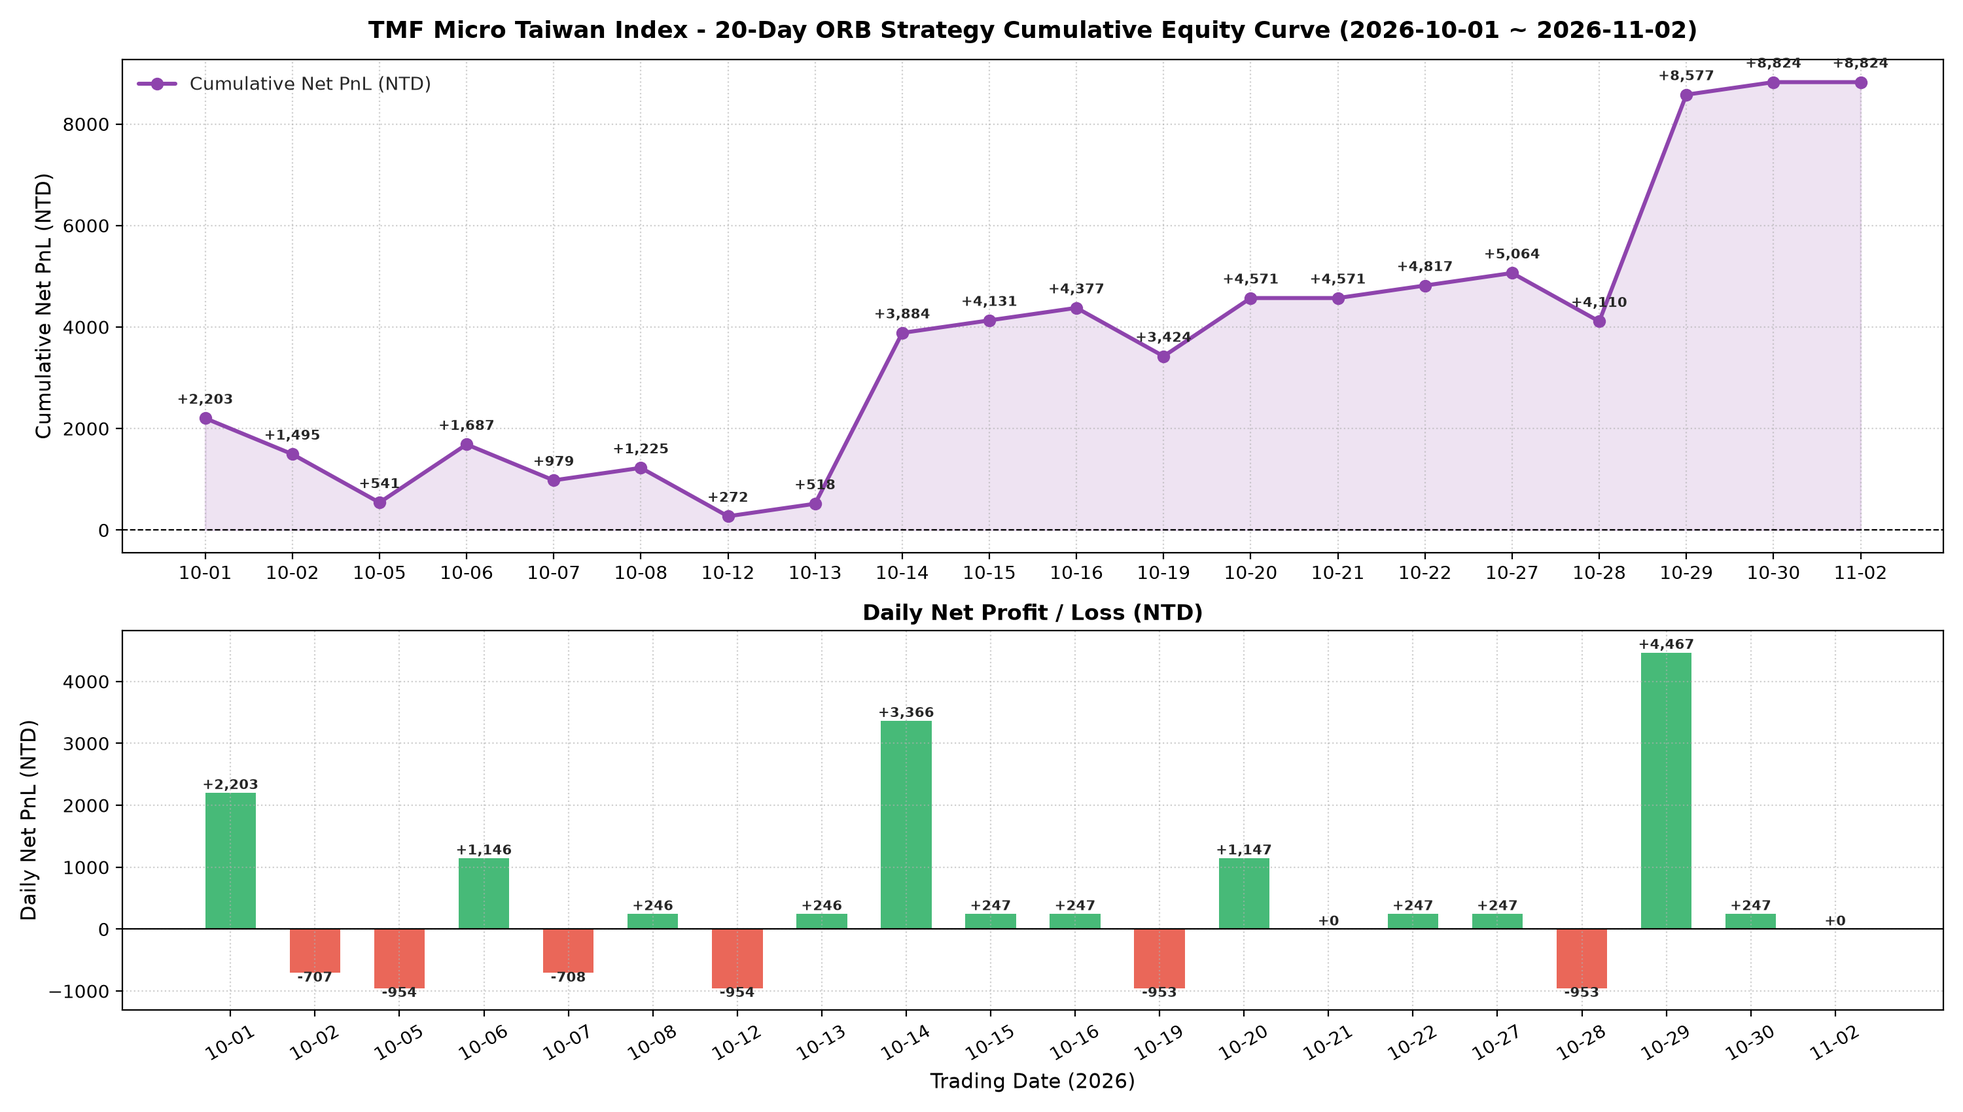
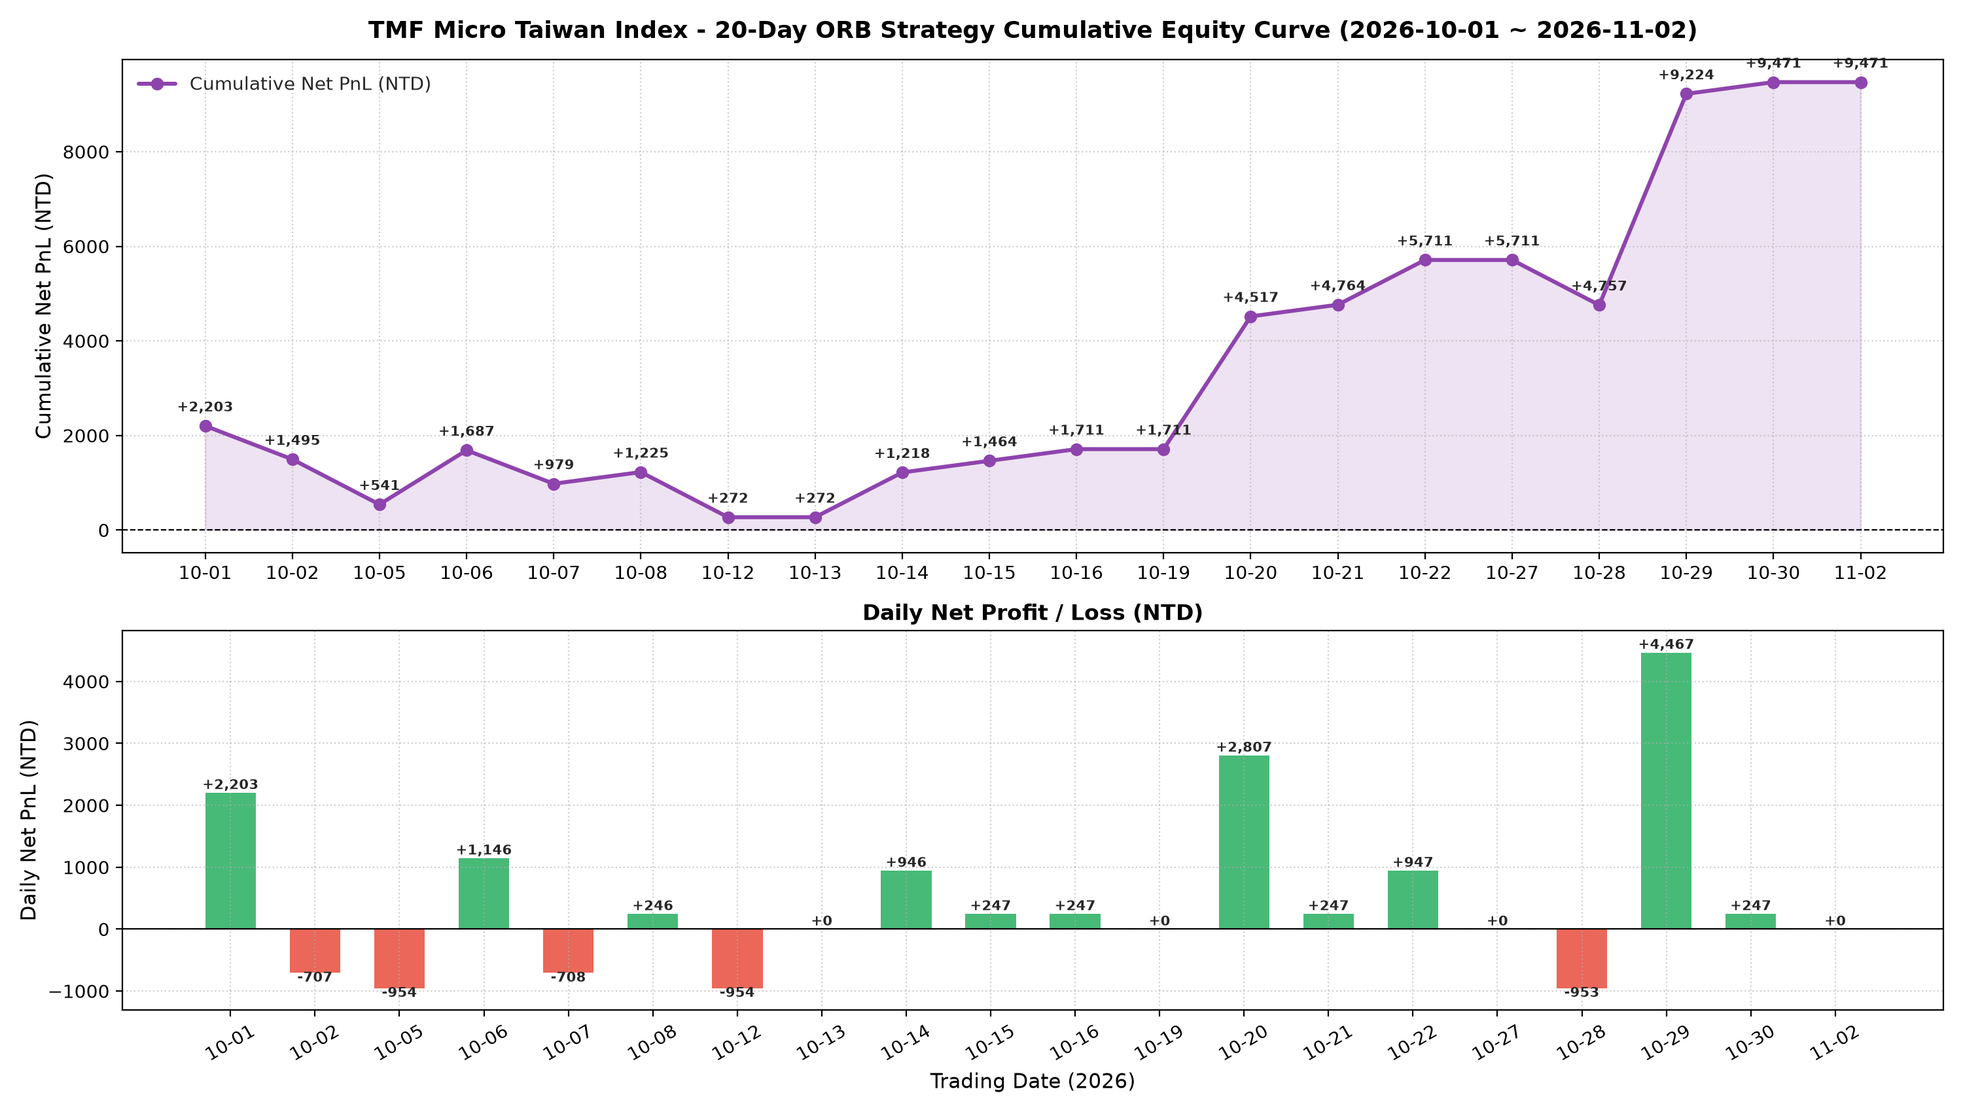
feat: Add Tier-1.5 profit lock, delayed EMA breakout entry, max ORB range filter, auto-reconnect and push notifications

diff --git a/tmf_daytrading/live/shioaji_trader.py b/tmf_daytrading/live/shioaji_trader.py
@@ -23,6 +23,7 @@ import pandas as pd
 from config import InstrumentConfig, ORBStrategyConfig, ShioajiConfig
 from strategies.orb_strategy import ORBStrategy
 from strategies.atr_scaler import config_for_date, describe
+from live.notifier import TradeNotifier
 
 logging.basicConfig(level=logging.INFO, format='%(asctime)s [%(levelname)s] %(message)s')
 logger = logging.getLogger("ShioajiTrader")
@@ -57,6 +58,9 @@ class ShioajiTMFTrader:
         self.quantity = quantity
         self.api = None
         self.contract = None
+        self._contract_code = "TMFR1"
+        self.notifier = TradeNotifier()
+        self._last_reconnect_time = 0.0
         self._realtime_bars = {}                # 即時 Tick 聚合之 1分K 快取: {pd.Timestamp: dict}
         self._history_loaded = False            # 是否已完成當日早盤歷史 1分K 初始載入
         self._kbars_disabled = bool(simulation) # 模擬環境直接使用 Tick+Snapshot+高速回補，避開 kbars 30s 逾時
@@ -120,6 +124,7 @@ class ShioajiTMFTrader:
 
     def load_tmf_contract(self, code: str = "TMFR1"):
         """獲取 TMF 微型臺指期近月合約"""
+        self._contract_code = code or "TMFR1"
         if self.api is None:
             logger.error("API 尚未登入")
             return None
@@ -177,6 +182,27 @@ class ShioajiTMFTrader:
         except Exception as e:
             logger.error(f"獲取合約失敗: {e}")
             return None
+
+    def reconnect(self) -> bool:
+        """盤中斷線自動重連機制 (含 15 秒冷卻保護，避免頻繁重登)"""
+        if time.time() - self._last_reconnect_time < 15.0:
+            return False
+        self._last_reconnect_time = time.time()
+        logger.warning("🔄 [自動重連] 偵測到 Shioaji 連線中斷，正在重新登入並恢復即時行情訂閱...")
+        try:
+            if self.api is not None:
+                try:
+                    self.api.logout()
+                except Exception:
+                    pass
+            if self.initialize() and self.load_tmf_contract(self._contract_code):
+                msg = f"✅ [自動重連成功] Shioaji 已恢復連線與 Tick 訂閱 ({self._contract_code})"
+                logger.info(msg)
+                self.notifier.send(msg)
+                return True
+        except Exception as e:
+            logger.error(f"自動重連失敗: {e}")
+        return False
 
     # ------------------------------------------------------------------
     # 送單
@@ -664,8 +690,10 @@ class ShioajiTMFTrader:
                             b["high"] = max(b["high"], price)
                             b["low"] = min(b["low"], price)
                             b["close"] = price
-            except Exception:
-                pass
+            except Exception as snap_err:
+                err_str = str(snap_err)
+                if "SessionNotEstablished" in err_str or "Token" in err_str or "disconnect" in err_str.lower():
+                    self.reconnect()
 
         if not self._realtime_bars:
             return pd.DataFrame()
@@ -699,21 +727,31 @@ class ShioajiTMFTrader:
             return
 
         if act == "BUY":
-            logger.info(f"🟢 [訊號觸發] {ts.strftime('%H:%M')} 做多進場 @ {bar['close']:.0f} ({res.get('detail')})")
+            msg = f"🟢 [訊號觸發] {ts.strftime('%H:%M')} 做多進場 @ {bar['close']:.0f} ({res.get('detail')})"
+            logger.info(msg)
             result = self._send_and_verify("BUY", q, price=bar['close'])
+            self.notifier.send(f"{msg}\n成交均價: {result.avg_price:.0f} ({result.status})")
         elif act == "SELL":
-            logger.info(f"🔴 [訊號觸發] {ts.strftime('%H:%M')} 做空進場 @ {bar['close']:.0f} ({res.get('detail')})")
+            msg = f"🔴 [訊號觸發] {ts.strftime('%H:%M')} 做空進場 @ {bar['close']:.0f} ({res.get('detail')})"
+            logger.info(msg)
             result = self._send_and_verify("SELL", q, price=bar['close'])
+            self.notifier.send(f"{msg}\n成交均價: {result.avg_price:.0f} ({result.status})")
         elif act == "EXIT":
             close_action = "SELL" if prev_pos == 1 else "BUY"
-            logger.info(f"🏁 [平倉回補] {ts.strftime('%H:%M')} {rec.get('reason')} @ {rec.get('exit_price'):.0f} (損益: {rec.get('pnl_pts'):+.0f}點)")
+            msg = f"🏁 [平倉回補] {ts.strftime('%H:%M')} {rec.get('reason')} @ {rec.get('exit_price'):.0f} (損益: {rec.get('pnl_pts'):+.0f}點)"
+            logger.info(msg)
             result = self._send_and_verify(close_action, q, octype="Cover", price=rec.get('exit_price', 0))
+            self.notifier.send(msg)
         elif act == "SAR_SELL":
-            logger.info(f"🔄 [假突破反手做空 SAR] {ts.strftime('%H:%M')} 多單停損並反手做空 @ {rec.get('exit_price'):.0f}")
+            msg = f"🔄 [假突破反手做空 SAR] {ts.strftime('%H:%M')} 多單停損並反手做空 @ {rec.get('exit_price'):.0f}"
+            logger.info(msg)
             result = self._send_and_verify("SELL", q * 2, price=rec.get('exit_price', 0))
+            self.notifier.send(msg)
         elif act == "SAR_BUY":
-            logger.info(f"🔄 [假跌破反手做多 SAR] {ts.strftime('%H:%M')} 空單停損並反手做多 @ {rec.get('exit_price'):.0f}")
+            msg = f"🔄 [假跌破反手做多 SAR] {ts.strftime('%H:%M')} 空單停損並反手做多 @ {rec.get('exit_price'):.0f}"
+            logger.info(msg)
             result = self._send_and_verify("BUY", q * 2, price=rec.get('exit_price', 0))
+            self.notifier.send(msg)
         else:
             return
 
@@ -753,6 +791,7 @@ class ShioajiTMFTrader:
         logger.info("• 每張單都會確認成交並與帳上部位對帳，稽核紀錄寫入 logs/orders_YYYYMMDD.csv")
         logger.info("• 按下 Ctrl+C 可隨時安全停止程式。")
         logger.info("=" * 75)
+        self.notifier.send(f"🤖 TMF 自動當沖機器人已啟動 ({today_str})\n口數: {self.quantity}口 | {describe(strat_cfg, atr_info)}")
 
         # 1. 抓取今日日盤 K 棒，計算指標與 ORB 區間 (若已過 09:15)
         kbars = self.fetch_today_day_kbars()

diff --git a/tmf_daytrading/strategies/orb_strategy.py b/tmf_daytrading/strategies/orb_strategy.py
@@ -143,6 +143,25 @@ class ORBStrategy:
                     self.position = 0
                     return {"action": "EXIT", "record": trade_record}
 
+                # (B2) 1.5階：中階鎖利 (獲利曾達 +110 點，拉回時鎖住 +75 點，補齊 80~200 點真空區)
+                t15_trig = getattr(self.config, "tier1_5_trigger_pts", 110.0)
+                t15_lock = getattr(self.config, "tier1_5_lock_pts", 75.0)
+                if (self.highest_profit >= t15_trig and 
+                    l <= (self.entry_price + t15_lock)):
+                    exit_p = self.entry_price + t15_lock
+                    trade_record = {
+                        "entry_time": self.entry_time,
+                        "exit_time": ts,
+                        "action": "BUY",
+                        "entry_price": self.entry_price,
+                        "exit_price": exit_p,
+                        "pnl_pts": t15_lock,
+                        "reason": f"中階保本鎖利 (曾獲利+{self.highest_profit:.0f}點, 鎖定+{t15_lock:.0f}點)"
+                    }
+                    self.trades.append(trade_record)
+                    self.position = 0
+                    return {"action": "EXIT", "record": trade_record}
+
                 # (C) 一階：保本鎖利機制 (獲利曾達 +80 點，拉回時鎖住 +30 點)
                 if (self.highest_profit >= self.config.breakeven_trigger_pts and 
                     l <= (self.entry_price + self.config.breakeven_lock_pts)):
@@ -228,6 +247,25 @@ class ORBStrategy:
                     self.position = 0
                     return {"action": "EXIT", "record": trade_record}
 
+                # (B2) 1.5階：中階鎖利 (獲利曾達 +110 點，拉回時鎖住 +75 點，補齊 80~200 點真空區)
+                t15_trig = getattr(self.config, "tier1_5_trigger_pts", 110.0)
+                t15_lock = getattr(self.config, "tier1_5_lock_pts", 75.0)
+                if (self.highest_profit >= t15_trig and 
+                    h >= (self.entry_price - t15_lock)):
+                    exit_p = self.entry_price - t15_lock
+                    trade_record = {
+                        "entry_time": self.entry_time,
+                        "exit_time": ts,
+                        "action": "SELL",
+                        "entry_price": self.entry_price,
+                        "exit_price": exit_p,
+                        "pnl_pts": t15_lock,
+                        "reason": f"中階保本鎖利 (曾獲利+{self.highest_profit:.0f}點, 鎖定+{t15_lock:.0f}點)"
+                    }
+                    self.trades.append(trade_record)
+                    self.position = 0
+                    return {"action": "EXIT", "record": trade_record}
+
                 # (C) 一階：保本鎖利機制 (獲利曾達 +80 點，拉回時鎖住 +30 點)
                 if (self.highest_profit >= self.config.breakeven_trigger_pts and 
                     h >= (self.entry_price - self.config.breakeven_lock_pts)):
@@ -308,17 +346,22 @@ class ORBStrategy:
                     "detail": f"早盤強勢跳水突破 ({self.pre_orb_low}-{sb:.0f}點) + VWAP/EMA 空頭確認"
                 }
 
-        # 3B. 09:16 ~ 11:30 標準現貨開盤區間突破 + VWAP & EMA 濾網進場信號
+        # 3B. 09:16 ~ 11:30 標準現貨開盤區間突破 + ORB 寬度空間保護 + VWAP & EMA 延遲共振進場
+        orb_range = (self.orb_high - self.orb_low) if self.orb_calculated else 0.0
+        max_orb_range = getattr(self.config, "max_orb_range_pts", 320.0)
+        max_chase = getattr(self.config, "max_breakout_chase_pts", 60.0)
+
         if (self.position == 0 and 
             self.orb_calculated and 
+            orb_range <= max_orb_range and
             self.trade_count < self.config.max_initial_trades and
             self.config.entry_start_time <= t_str <= self.config.entry_end_time):
 
             long_filter = (not self.config.use_vwap_ema_filter) or (c > vwap and ema9 > ema21)
             short_filter = (not self.config.use_vwap_ema_filter) or (c < vwap and ema9 < ema21)
 
-            # 向上突破開盤高點 + 站上 VWAP 且均線多頭 -> 做多
-            if prev_c <= self.orb_high and c > self.orb_high and long_filter:
+            # 向上突破開盤高點 (含突破後等待 EMA 共振確認，只要未超過追價上限 max_chase 皆可進場)
+            if self.orb_high < c <= (self.orb_high + max_chase) and long_filter:
                 self.position = 1
                 self.entry_price = c
                 self.entry_time = ts
@@ -328,11 +371,11 @@ class ORBStrategy:
                     "action": "BUY", 
                     "price": c, 
                     "time": ts,
-                    "detail": f"突破現貨開盤高點 ({self.orb_high}) + VWAP/EMA 多頭確認"
+                    "detail": f"突破現貨開盤高點 ({self.orb_high:.0f}) + VWAP/EMA 多頭確認"
                 }
 
-            # 向下跌破開盤低點 + 跌破 VWAP 且均線空頭 -> 做空
-            elif prev_c >= self.orb_low and c < self.orb_low and short_filter:
+            # 向下跌破開盤低點 (含跌破後等待 EMA 共振確認，只要未超過追價上限 max_chase 皆可進場)
+            elif (self.orb_low - max_chase) <= c < self.orb_low and short_filter:
                 self.position = -1
                 self.entry_price = c
                 self.entry_time = ts
@@ -342,7 +385,7 @@ class ORBStrategy:
                     "action": "SELL", 
                     "price": c, 
                     "time": ts,
-                    "detail": f"跌破現貨開盤低點 ({self.orb_low}) + VWAP/EMA 空頭確認"
+                    "detail": f"跌破現貨開盤低點 ({self.orb_low:.0f}) + VWAP/EMA 空頭確認"
                 }
 
         return action_result

diff --git a/tmf_daytrading/live/notifier.py b/tmf_daytrading/live/notifier.py
@@ -1,0 +1,85 @@
+"""
+即時推播通知模組 (支援 Telegram Bot / Discord Webhook / LINE Notify)
+只需在 .env 設定對應環境變數即可自動啟用，未設定時靜默略過，絕不影響下單速度與穩定度。
+
+可設定之 .env 變數：
+- TELEGRAM_BOT_TOKEN 與 TELEGRAM_CHAT_ID
+- DISCORD_WEBHOOK_URL
+- LINE_NOTIFY_TOKEN
+"""
+import os
+import json
+import threading
+import urllib.request
+import urllib.parse
+import logging
+
+logger = logging.getLogger("Notifier")
+
+
+class TradeNotifier:
+    def __init__(self):
+        self.tg_token = os.environ.get("TELEGRAM_BOT_TOKEN", "").strip()
+        self.tg_chat_id = os.environ.get("TELEGRAM_CHAT_ID", "").strip()
+        self.discord_webhook = os.environ.get("DISCORD_WEBHOOK_URL", "").strip()
+        self.line_token = os.environ.get("LINE_NOTIFY_TOKEN", "").strip()
+
+    @property
+    def enabled(self) -> bool:
+        return bool((self.tg_token and self.tg_chat_id) or self.discord_webhook or self.line_token)
+
+    def send(self, text: str, async_send: bool = True):
+        """發送推播通知 (預設背景執行緒非阻塞發送，0ms 延遲不卡下單迴圈)"""
+        if not self.enabled:
+            return
+        if async_send:
+            t = threading.Thread(target=self._send_sync, args=(text,), daemon=True)
+            t.start()
+        else:
+            self._send_sync(text)
+
+    def _send_sync(self, text: str):
+        # 1. Telegram Bot
+        if self.tg_token and self.tg_chat_id:
+            try:
+                url = f"https://api.telegram.org/bot{self.tg_token}/sendMessage"
+                payload = json.dumps({
+                    "chat_id": self.tg_chat_id,
+                    "text": text,
+                }).encode("utf-8")
+                req = urllib.request.Request(
+                    url, data=payload, headers={"Content-Type": "application/json"}
+                )
+                with urllib.request.urlopen(req, timeout=5) as _:
+                    pass
+            except Exception as e:
+                logger.debug(f"Telegram 推播失敗: {e}")
+
+        # 2. Discord Webhook
+        if self.discord_webhook:
+            try:
+                payload = json.dumps({"content": text}).encode("utf-8")
+                req = urllib.request.Request(
+                    self.discord_webhook,
+                    data=payload,
+                    headers={"Content-Type": "application/json", "User-Agent": "TMFBot/1.0"},
+                )
+                with urllib.request.urlopen(req, timeout=5) as _:
+                    pass
+            except Exception as e:
+                logger.debug(f"Discord 推播失敗: {e}")
+
+        # 3. LINE Notify
+        if self.line_token:
+            try:
+                url = "https://notify-api.line.me/api/notify"
+                data = urllib.parse.urlencode({"message": f"\n{text}"}).encode("utf-8")
+                req = urllib.request.Request(
+                    url,
+                    data=data,
+                    headers={"Authorization": f"Bearer {self.line_token}"},
+                )
+                with urllib.request.urlopen(req, timeout=5) as _:
+                    pass
+            except Exception as e:
+                logger.debug(f"LINE 推播失敗: {e}")

diff --git a/tmf_daytrading/tests/test_live_verification.py b/tmf_daytrading/tests/test_live_verification.py
@@ -255,6 +255,28 @@ daily_hist = load_daily_history(data_dir)
 atr_val, n_days = compute_atr(daily_hist, "2026-11-03", period=20, min_days=20)
 check("永久日 K 歷史檔 (daily_bars.csv) 已累積滿 20 日可計算 ATR", atr_val is not None and n_days == 20)
 
+# 20. 中階 (1.5階) 鎖利、ORB 過寬過濾與延遲均線共振驗證
+s_mid = make_strategy(position=1, entry=45000.0, trade_count=1)
+s_mid.highest_profit = 175.0
+res_mid = s_mid.execute_bar(pd.Timestamp("2026-11-02 10:00:00"), pd.Series({"open": 45120.0, "high": 45120.0, "low": 45095.0, "close": 45098.0}))
+check("中階鎖利 (1.5階): 曾賺+175點拉回時鎖住+100點 (不再掉回+30點)", res_mid["action"] == "EXIT" and res_mid["record"]["pnl_pts"] == 100.0)
+
+s_wide = make_strategy(position=0, entry=0.0, trade_count=0)
+s_wide.orb_high = 45400.0
+s_wide.orb_low = 45000.0   # 寬度 400 點 > max_orb_range_pts (320 點)
+s_wide.orb_calculated = True
+res_wide = s_wide.execute_bar(pd.Timestamp("2026-11-02 09:20:00"), pd.Series({"open": 45405.0, "high": 45420.0, "low": 45400.0, "close": 45415.0, "vwap": 45200.0, "ema9": 45350.0, "ema21": 45300.0}))
+check("ORB 過寬保護: 開盤振幅 400點 > 320點上限時不追高進場", res_wide["action"] == "HOLD")
+
+s_delay = make_strategy(position=0, entry=0.0, trade_count=0)
+s_delay.orb_high = 45200.0
+s_delay.orb_low = 45050.0  # 寬度 150 點 <= 320 點
+s_delay.orb_calculated = True
+prev_b = pd.Series({"close": 45215.0})  # 前一根已突破 45200 但當時均線未過
+cur_b = pd.Series({"open": 45215.0, "high": 45230.0, "low": 45210.0, "close": 45225.0, "vwap": 45150.0, "ema9": 45180.0, "ema21": 45160.0})
+res_delay = s_delay.execute_bar(pd.Timestamp("2026-11-02 09:20:00"), cur_b, prev_b)
+check("突破延遲共振: 前根突破後本根 EMA 轉多仍可順勢進場不漏單", res_delay["action"] == "BUY")
+
 print()
 print("全部通過" if check.failed == 0 else f"有 {check.failed} 項失敗")
 sys.exit(1 if check.failed else 0)

diff --git a/tmf_daytrading/config.py b/tmf_daytrading/config.py
@@ -55,10 +55,14 @@ class ORBStrategyConfig:
     stop_loss_pts: float = 90.0              # 初始停損點數 (90 點，適應高基期波動)
     breakeven_trigger_pts: float = 80.0      # 一階保本鎖利門檻 (獲利達 80 點啟動)
     breakeven_lock_pts: float = 30.0         # 一階保本鎖定點數 (拉回時至少鎖住 +30 點)
+    tier1_5_trigger_pts: float = 160.0       # 中階(1.5階)鎖利門檻 (獲利達 160 點啟動，補齊 80~200 點真空區且不卡死主升段洗盤)
+    tier1_5_lock_pts: float = 100.0          # 中階(1.5階)鎖定點數 (拉回時鎖住 +100 點)
     tier2_trigger_pts: float = 200.0         # 二階波段鎖利門檻 (獲利達 200 點啟動)
     tier2_lock_pts: float = 120.0            # 二階波段鎖定點數 (拉回時鎖住 +120 點)
-    trailing_activation_pts: float = 400.0   # 三階大波段移動停利門檻 (+400 點啟動，否則抱到收盤)
+    trailing_activation_pts: float = 340.0   # 三階大波段移動停利門檻 (+340 點啟動，否則抱到收盤)
     trailing_distance_pts: float = 60.0      # 三階大波段移動停利回撤距離 (回撤 60 點出場)
+    max_breakout_chase_pts: float = 60.0     # 突破後等待 VWAP/EMA 均線共振允許的最大追價距離 (60 點，防漏單同時不追高)
+    max_orb_range_pts: float = 320.0         # 09:00~09:15 ORB 區間最大允許寬度 (超過 320 點代表早盤空間耗盡，09:16 後不追突破)
     use_vwap_ema_filter: bool = True         # 啟用 VWAP + EMA9/EMA21 順勢濾網
     enable_sar: bool = True                  # 啟用早盤假突破停損反手 (Stop & Reverse)
     max_initial_trades: int = 1              # 每日首次突破進場上限 (1 次，若假突破可反手 1 次)

diff --git a/tmf_daytrading/strategies/atr_scaler.py b/tmf_daytrading/strategies/atr_scaler.py
@@ -21,11 +21,15 @@ SCALED_FIELDS = (
     "stop_loss_pts",
     "breakeven_trigger_pts",
     "breakeven_lock_pts",
+    "tier1_5_trigger_pts",
+    "tier1_5_lock_pts",
     "tier2_trigger_pts",
     "tier2_lock_pts",
     "trailing_activation_pts",
     "trailing_distance_pts",
     "early_super_breakout_pts",
+    "max_breakout_chase_pts",
+    "max_orb_range_pts",
 )
 
 DAILY_HISTORY_FILE = "daily_bars.csv"     # 永久累積的日盤日 K (不滾動刪除，供 ATR 計算)
@@ -148,6 +152,7 @@ def describe(cfg, info: Dict) -> str:
     else:
         head = "ATR 縮放未啟用，使用固定參數"
     return (f"{head} → 停損 -{cfg.stop_loss_pts:.0f} | 一階 +{cfg.breakeven_trigger_pts:.0f}→+{cfg.breakeven_lock_pts:.0f} | "
+            f"中階 +{cfg.tier1_5_trigger_pts:.0f}→+{cfg.tier1_5_lock_pts:.0f} | "
             f"二階 +{cfg.tier2_trigger_pts:.0f}→+{cfg.tier2_lock_pts:.0f} | "
             f"移動停利 +{cfg.trailing_activation_pts:.0f}(回撤{cfg.trailing_distance_pts:.0f}) | "
-            f"早盤爆發 {cfg.early_super_breakout_pts:.0f}")
+            f"ORB上限 {cfg.max_orb_range_pts:.0f}")
